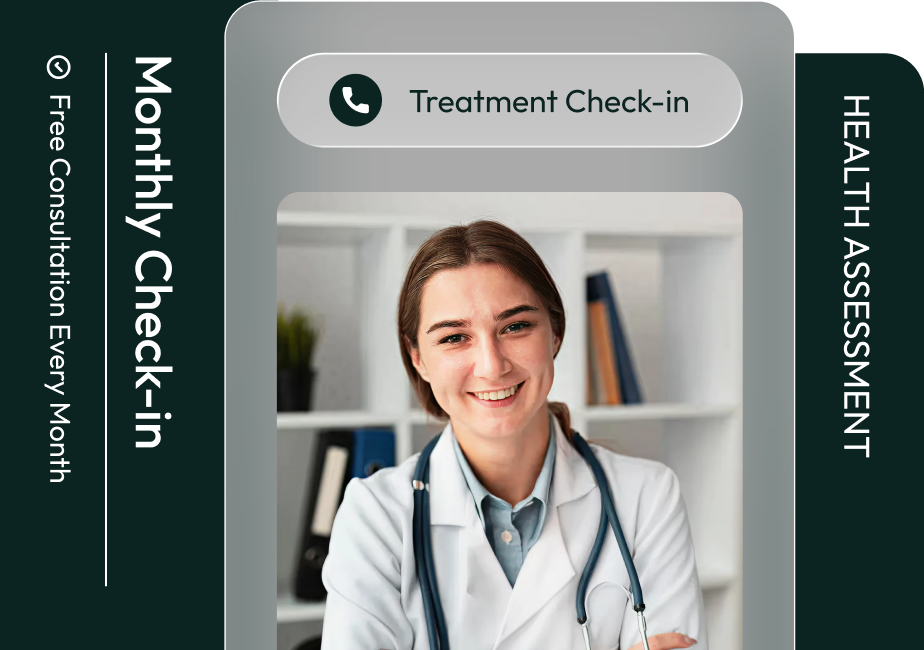
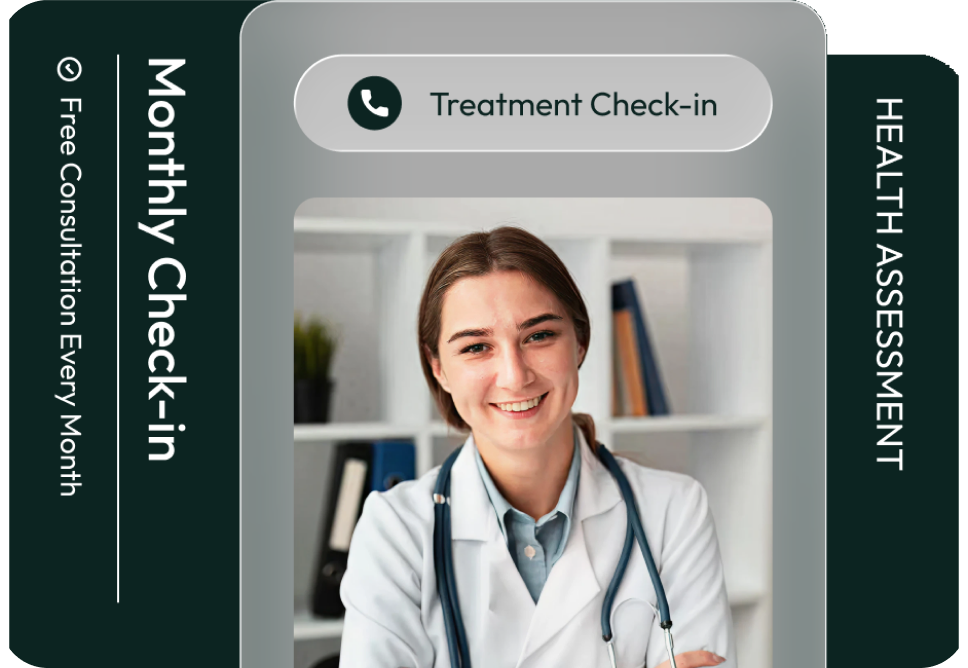
Home WL panel: add "Introducing Wegovy Pills" card + exact Figma photos
- New WegovyIntroCard at the top of the weight-loss panel (Figma 67:1897):
  "Introducing Wegovy Pills — care in the UK through Jood Life", the two
  feature rows (Now available in the UK / Clinician-led care you can trust),
  a "How Wegovy® works" button, and the member photo with testimonial.
- Replace the weight-loss photos (hero, transformation man, check-in doctor)
  with the exact cutouts exported from the Figma, and add wl-wegovy.png.

diff --git a/components/category/WeightLossDetail.tsx b/components/category/WeightLossDetail.tsx
@@ -73,9 +73,108 @@ function GhostButton({ href, children }: { href: string; children: React.ReactNo
   );
 }
 
+function FeatureRow({
+  title,
+  sub,
+  icon,
+}: {
+  title: string;
+  sub: string;
+  icon: React.ReactNode;
+}) {
+  return (
+    <li className="flex items-start gap-3">
+      <span className="grid h-11 w-11 shrink-0 place-items-center rounded-full bg-white/10 text-white">
+        <svg width="20" height="20" viewBox="0 0 24 24" fill="none" aria-hidden>
+          {icon}
+        </svg>
+      </span>
+      <span className="flex flex-col">
+        <span className="font-ui text-[18px] font-semibold leading-[24px] text-white md:text-[20px]">
+          {title}
+        </span>
+        <span className="mt-0.5 font-ui text-[14px] leading-[19px] text-white/70">
+          {sub}
+        </span>
+      </span>
+    </li>
+  );
+}
+
+/** "Introducing Wegovy Pills" card (Figma 67:1897, top of the WL panel). */
+function WegovyIntroCard() {
+  return (
+    <Reveal
+      as="div"
+      className="relative overflow-hidden rounded-[24px] bg-black/20 p-6 backdrop-blur-[20px] md:p-8 lg:p-10"
+    >
+      <div className="grid items-center gap-6 lg:grid-cols-[1.15fr_1fr] lg:gap-10">
+        <div className="flex flex-col">
+          <h3 className="font-display text-[26px] font-semibold leading-[1.14] tracking-[-0.01em] text-white md:text-[34px] md:leading-[40px]">
+            Introducing <span className="text-[#b4ff9f]">Wegovy Pills</span>
+            <br />
+            care in the UK{" "}
+            <em className="font-serif font-normal italic">through Jood Life</em>
+          </h3>
+          <p className="mt-3 max-w-[48ch] font-ui text-[16px] leading-[22px] text-white/80">
+            A new option for weight loss, backed by{" "}
+            <span className="text-[#b4ff9f]">UK-registered prescribers</span> and
+            ongoing support.
+          </p>
+
+          <ul className="mt-6 flex flex-col gap-4">
+            <FeatureRow
+              title="Now available in the UK"
+              sub="Wegovy® care, introduced by Jood."
+              icon={
+                <>
+                  <circle cx="12" cy="12" r="9" stroke="currentColor" strokeWidth="1.6" />
+                  <path d="M8.5 12.5l2.4 2.4 4.6-5" stroke="currentColor" strokeWidth="1.7" strokeLinecap="round" strokeLinejoin="round" />
+                </>
+              }
+            />
+            <FeatureRow
+              title="Clinician-led care you can trust"
+              sub="Reviewed by UK-registered prescribers to ensure it’s right for you."
+              icon={
+                <>
+                  <path d="M12 3l7 3v5c0 4.2-2.9 7.4-7 8.5C7.9 18.4 5 15.2 5 11V6l7-3z" stroke="currentColor" strokeWidth="1.6" strokeLinejoin="round" />
+                  <path d="M9 11.5l2 2 4-4" stroke="currentColor" strokeWidth="1.6" strokeLinecap="round" strokeLinejoin="round" />
+                </>
+              }
+            />
+          </ul>
+
+          <div className="mt-7">
+            <Link
+              href="/weight-loss#assessment"
+              className="inline-flex h-[52px] w-fit items-center justify-center rounded-xl border border-white/40 bg-white/5 px-7 font-ui text-[16px] font-medium text-white transition-colors duration-200 hover:bg-white/15"
+            >
+              How Wegovy® works
+            </Link>
+          </div>
+        </div>
+
+        <div className="relative mx-auto h-[300px] w-full max-w-[440px] md:h-[380px]">
+          <Image
+            src="/assets/category/wl-wegovy.png"
+            alt="A Jood Life member who started Wegovy treatment"
+            fill
+            quality={90}
+            sizes="(max-width: 1024px) 80vw, 440px"
+            className="object-contain object-center"
+          />
+        </div>
+      </div>
+    </Reveal>
+  );
+}
+
 export default function WeightLossDetail() {
   return (
-    <div className="grid gap-5 lg:grid-cols-2">
+    <div className="flex flex-col gap-5">
+      <WegovyIntroCard />
+      <div className="grid gap-5 lg:grid-cols-2">
       {/* Card A — transformation (second on mobile per Figma) */}
       <Reveal as="div" className="order-2 flex flex-col items-center rounded-[24px] bg-black/20 p-6 text-center backdrop-blur-[20px] md:p-8 lg:order-1">
         <h3 className="font-display text-[28px] font-semibold leading-[1.12] tracking-[-0.01em] text-white md:text-[34px] md:leading-[42px]">
@@ -142,6 +241,7 @@ export default function WeightLossDetail() {
           <GhostButton href="/weight-loss#assessment">Get started</GhostButton>
         </div>
       </Reveal>
+      </div>
     </div>
   );
 }
